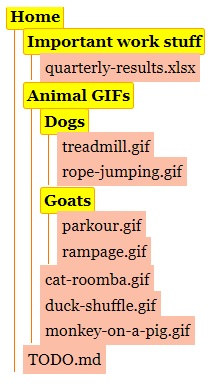
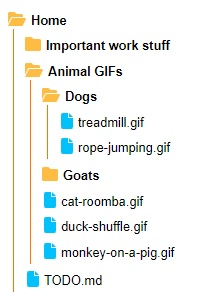
svelte special elements

diff --git a/framework/svelte/svelte-special-elements.html b/framework/svelte/svelte-special-elements.html
@@ -1,0 +1,159 @@
+<!DOCTYPE html>
+<html lang="en">
+  <head>
+    <meta charset="UTF-8" />
+    <meta name="viewport" content="width=device-width, initial-scale=1.0" />
+    <meta http-equiv="X-UA-Compatible" content="ie=edge" />
+    <link rel="stylesheet" type="text/css" href="../../css/style.css" />
+    <link rel="stylesheet" href="../../css/font-awesome-4.7.0/css/font-awesome.min.css" />
+
+    <script src="../../js/libs/jquery.min.js"></script>
+    <link rel="stylesheet" href="../../js/libs/highlight/styles/devibeans.min.css" />
+    <script src="../../js/libs/highlight/highlight.min.js"></script>
+    <title>Special Elements</title>
+  </head>
+
+  <body>
+    <nav class="nav_main">
+      <a href="../../index.html"><i class="fa fa-home"></i></a>
+      <a href="svelte_index.html">Svelte</a>
+    </nav>
+    <div class="content">
+      <section id="sv_10_01">
+        <h4>svelte:self</h4>
+        <img src="../../images/frameworks/svelte/folder.jpg" />
+        <h5>FolderSelf.svelte</h5>
+        <pre><code class="language-html">
+&#x3C;script lang=&#x22;ts&#x22;&#x3E;
+  import Folder from &#x22;./Folder.svelte&#x22;;
+
+  class Item {
+    public name: string;
+    public files?: Item[];
+  }
+
+  let root: Item[] = [
+    {
+      name: &#x22;Important work stuff&#x22;,
+      files: [{ name: &#x22;quarterly-results.xlsx&#x22; }],
+    },
+    {
+      name: &#x22;Animal GIFs&#x22;,
+      files: [
+        {
+          name: &#x22;Dogs&#x22;,
+          files: [{ name: &#x22;treadmill.gif&#x22; }, { name: &#x22;rope-jumping.gif&#x22; }],
+        },
+        {
+          name: &#x22;Goats&#x22;,
+          files: [{ name: &#x22;parkour.gif&#x22; }, { name: &#x22;rampage.gif&#x22; }],
+        },
+        { name: &#x22;cat-roomba.gif&#x22; },
+        { name: &#x22;duck-shuffle.gif&#x22; },
+        { name: &#x22;monkey-on-a-pig.gif&#x22; },
+      ],
+    },
+    { name: &#x22;TODO.md&#x22; },
+  ];
+&#x3C;/script&#x3E;
+
+&#x3C;div class=&#x22;wrap&#x22;&#x3E;
+  &#x3C;Folder name=&#x22;Home&#x22; files={root} /&#x3E;
+&#x3C;/div&#x3E;
+
+&#x3C;style&#x3E;
+  .wrap {
+    margin: 10px;
+  }
+&#x3C;/style&#x3E;</code></pre>
+
+        <h5>File.svelte</h5>
+        <pre><code class="language-html">
+&#x3C;script lang=&#x22;ts&#x22;&#x3E;
+  import Fa from &#x22;svelte-fa&#x22;;
+  import { faFolder, faFile } from &#x22;@fortawesome/free-solid-svg-icons&#x22;;
+  export let name;
+  $: type = name.slice(name.lastIndexOf(&#x22;.&#x22;) + 1);
+&#x3C;/script&#x3E;
+
+&#x3C;span&#x3E;&#x3C;Fa icon={faFile} color=&#x22;#00c1fb&#x22; /&#x3E;&#x3C;span class=&#x22;lbl&#x22;&#x3E;{name}&#x3C;/span&#x3E;&#x3C;/span&#x3E;
+
+&#x3C;style&#x3E;
+  span {
+    padding: 5px;
+  }
+  .lbl {
+    padding-left: 5px;
+    font-size: 0.8em;
+    font-family: Arial, Helvetica, sans-serif;
+  }
+&#x3C;/style&#x3E;
+
+        </code></pre>
+
+        <h5>Folder.svelte</h5>
+        <pre><code class="language-html">
+&#x3C;script lang=&#x22;ts&#x22;&#x3E;
+  import File from &#x22;./File.svelte&#x22;;
+  import Fa from &#x22;svelte-fa&#x22;;
+  import { faFolderOpen, faFolderBlank } from &#x22;@fortawesome/free-solid-svg-icons&#x22;;
+  export let expanded = false;
+  export let name;
+  export let files;
+
+  function toggle() {
+    expanded = !expanded;
+  }
+&#x3C;/script&#x3E;
+
+{#if expanded}
+  &#x3C;span class:expanded on:click={toggle}&#x3E;&#x3C;Fa icon={faFolderOpen} color=&#x22;#ffbc42&#x22; /&#x3E;&#x3C;span class=&#x22;lbl&#x22;&#x3E;{name}&#x3C;/span&#x3E;&#x3C;/span&#x3E;
+  &#x3C;ul&#x3E;
+    {#each files as file}
+      &#x3C;li&#x3E;
+        {#if file.files}
+          &#x3C;svelte:self {...file} /&#x3E;
+        {:else}
+          &#x3C;File {...file} /&#x3E;
+        {/if}
+      &#x3C;/li&#x3E;
+    {/each}
+  &#x3C;/ul&#x3E;
+{:else}
+  &#x3C;span class:expanded on:click={toggle}&#x3E;&#x3C;Fa icon={faFolderBlank} color=&#x22;#ffbc42&#x22; /&#x3E;&#x3C;span class=&#x22;lbl&#x22;&#x3E;{name}&#x3C;/span&#x3E;&#x3C;/span&#x3E;
+{/if}
+
+&#x3C;style&#x3E;
+  span {
+    padding: 3px;
+    cursor: pointer;
+  }
+
+  ul {
+    padding: 0.2em 0 0 0.5em;
+    margin: 0 0 0 0.5em;
+    list-style: none;
+    border-left: 1px solid rgb(255, 115, 0);
+  }
+
+  li {
+    padding: 0.2em 0;
+  }
+  .lbl {
+    padding-left: 5px;
+    font-weight: bold;
+    font-size: 0.8em;
+
+    font-family: Arial, Helvetica, sans-serif;
+  }
+&#x3C;/style&#x3E;
+
+    </code></pre>
+      </section>
+    </div>
+  </body>
+
+  <script>
+    hljs.highlightAll();
+  </script>
+</html>

diff --git a/framework/svelte/svelte_events.html b/framework/svelte/svelte_events.html
@@ -126,110 +126,6 @@
 &#x3C;/style&#x3E;</code></pre>
       </section>
 
-      <section id="sv_08_02">
-        <h4>svelte:self</h4>
-        <img src="../../images/frameworks/svelte/folder.jpg" />
-        <h5>FolderSelf.svelte</h5>
-        <pre><code class="language-html">
-&#x3C;script lang=&#x22;ts&#x22;&#x3E;
-import Folder from &#x22;./Folder.svelte&#x22;;
-
-  let root = [
-    {
-      name: &#x22;Important work stuff&#x22;,
-      files: [{ name: &#x22;quarterly-results.xlsx&#x22; }],
-    },
-    {
-      name: &#x22;Animal GIFs&#x22;,
-      files: [
-        {
-          name: &#x22;Dogs&#x22;,
-          files: [{ name: &#x22;treadmill.gif&#x22; }, { name: &#x22;rope-jumping.gif&#x22; }],
-        },
-        {
-          name: &#x22;Goats&#x22;,
-          files: [{ name: &#x22;parkour.gif&#x22; }, { name: &#x22;rampage.gif&#x22; }],
-        },
-        { name: &#x22;cat-roomba.gif&#x22; },
-        { name: &#x22;duck-shuffle.gif&#x22; },
-        { name: &#x22;monkey-on-a-pig.gif&#x22; },
-      ],
-    },
-    { name: &#x22;TODO.md&#x22; },
-  ];
-&#x3C;/script&#x3E;
-
-&#x3C;Folder name=&#x22;Home&#x22; files={root}&#x3E;&#x3C;/Folder&#x3E;</code></pre>
-
-        <h5>File.svelte</h5>
-        <pre><code class="language-html">&#x3C;script lang=&#x22;ts&#x22;&#x3E;
-  export let name;
-&#x9;$: type = name.slice(name.lastIndexOf(&#x27;.&#x27;) + 1);
-&#x3C;/script&#x3E;
-&#x3C;span&#x3E;{name}&#x3C;/span&#x3E;
-
-&#x3C;style&#x3E;
-&#x9;span {
-&#x9;&#x9;padding: 5px;
-&#x9;&#x9;background: 0 0.1em no-repeat;
-&#x9;&#x9;background-size: 1em 1em;
-      background-color: rgb(253, 190, 167);
-&#x9;}
-&#x3C;/style&#x3E;</code></pre>
-
-        <h5>Folder.svelte</h5>
-        <pre><code class="language-html">&#x3C;script lang=&#x22;ts&#x22;&#x3E;
-  import File from &#x22;./File.svelte&#x22;;
-
-  export let expanded = false;
-  export let name;
-  export let files;
-
-  function toggle() {
-    expanded = !expanded;
-  }
-&#x3C;/script&#x3E;
-
-&#x3C;span class:expanded on:click={toggle}&#x3E;{name}&#x3C;/span&#x3E;
-
-{#if expanded}
-  &#x3C;ul&#x3E;
-    {#each files as file}
-      &#x3C;li&#x3E;
-        {#if file.files}
-          &#x3C;svelte:self {...file} /&#x3E;
-        {:else}
-          &#x3C;File {...file} /&#x3E;
-        {/if}
-      &#x3C;/li&#x3E;
-    {/each}
-  &#x3C;/ul&#x3E;
-{/if}
-
-&#x3C;style&#x3E;
-  span {
-    padding: 3px;
-    /* background-size: 1em 1em; */
-    font-weight: bold;
-    cursor: pointer;
-    background-color: yellow;
-    border:1px solid orange;
-    border-radius: 3px;
-  }
-
-  ul {
-    padding: 0.2em 0 0 0.5em;
-    margin: 0 0 0 0.5em;
-    list-style: none;
-    border-left: 1px solid rgb(255, 115, 0);
-  }
-
-  li {
-    padding: 0.2em 0;
-  }
-&#x3C;/style&#x3E;
-</code></pre>
-      </section>
 
       <section id="sv_08_03">
         <h4></h4>

diff --git a/framework/svelte/svelte_index.html b/framework/svelte/svelte_index.html
@@ -112,6 +112,19 @@
         </li>
         <li>
           <details>
+            <summary>Special Elements</summary>
+            <ol>
+              <li><a href="svelte-special-elements.html#sv_10_01">svelte:self</a></li>
+              <li><a href="svelte-special-elements.html#sv_10_01"></a></li>
+              <li><a href="svelte-special-elements.html#sv_10_01"></a></li>
+              <li><a href="svelte-special-elements.html#sv_10_01"></a></li>
+              <li><a href="svelte-special-elements.html#sv_10_01"></a></li>
+              <li><a href="svelte-special-elements.html#sv_10_01"></a></li>
+            </ol>
+          </details>
+        </li>
+        <li>
+          <details>
             <summary><a href="svelte_transition.html">Animation</a></summary>
             <ol>
               <li>
